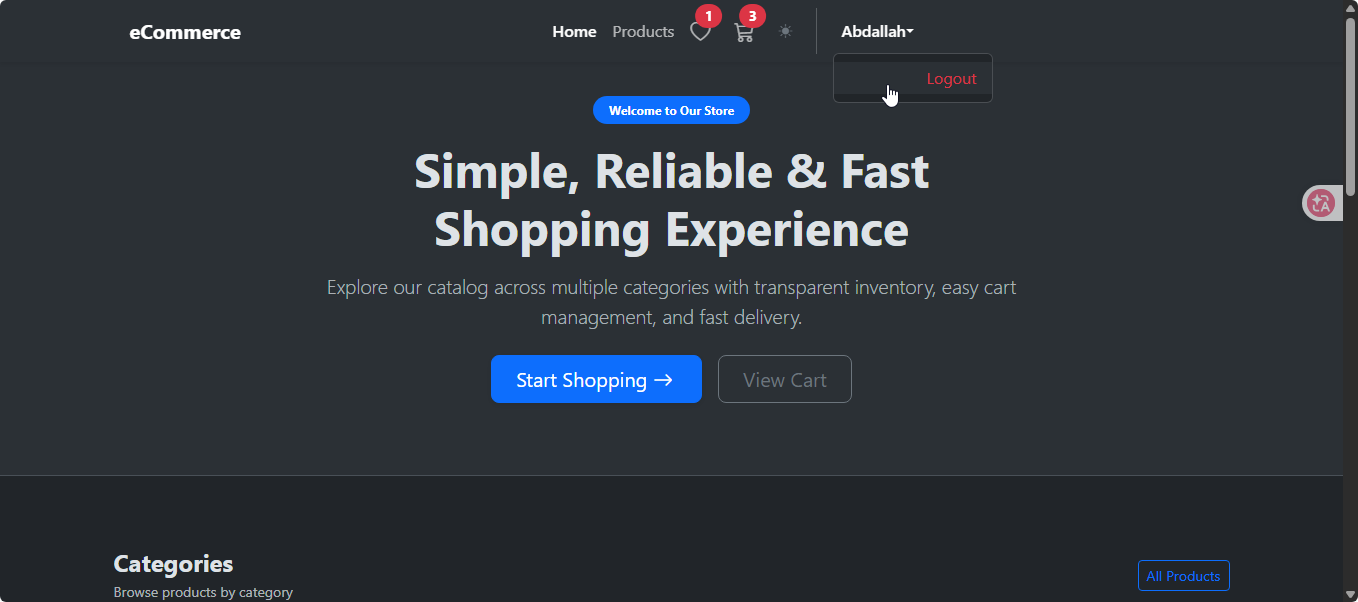
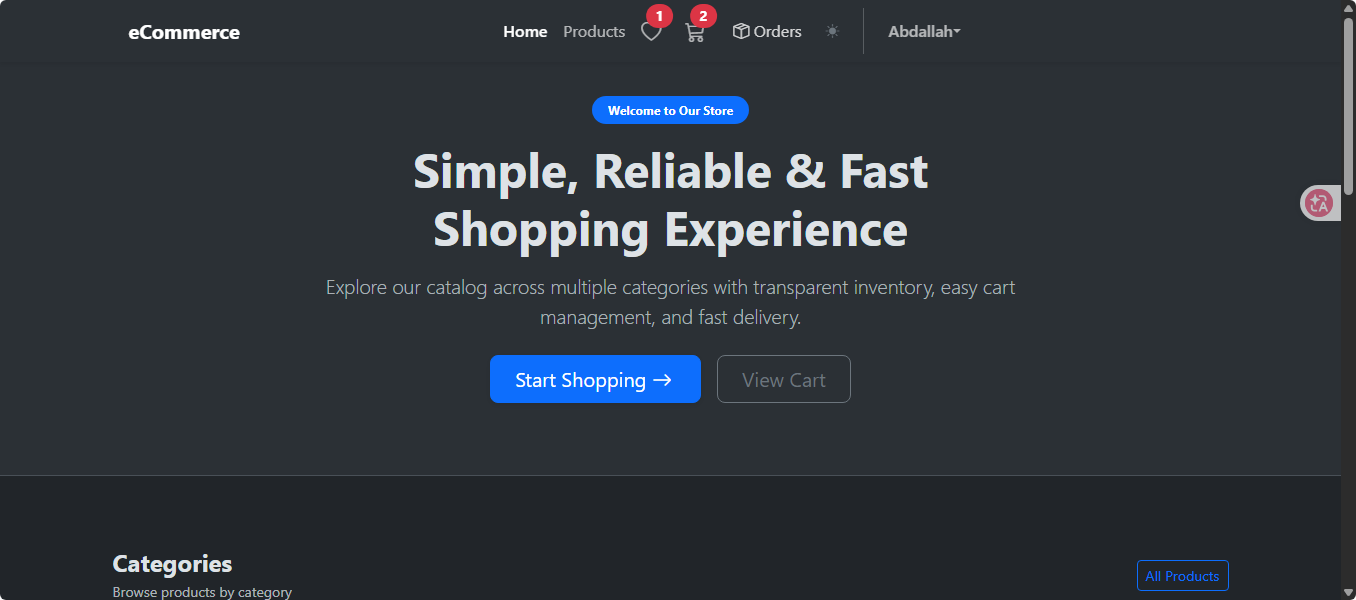
Changing E-Commerce desc and photo

diff --git a/src/data/myProjects.js b/src/data/myProjects.js
@@ -6,8 +6,8 @@ import EducationalPlatformImage from "../assets/MyProjects/Educational-Platform.
 export const myProjects = [
     {
         title: "E-Commerce",
-        description: "A responsive e-commerce platform with real-time search, category filters, and live stock tracking. Features cart and wishlist management with full auth workflows.",
-        technologies: ["React", "TypeScript", "Redux Toolkit", "React Router", "Bootstrap", "Local Storage", "React Hook Form", "Zod"],
+        description: "A full-featured e-commerce platform simulating a full-stack architecture on the client side. Includes auth flows, protected routes, stock tracking, cart/wishlist management, and order history with isolated user data via LocalStorage.",
+        technologies: ["React", "TypeScript", "Redux Toolkit", "React Router DOM", "Bootstrap", "Local Storage", "React Hook Form", "Zod"],
         image: eCommerceImage,
         liveLink: "https://e-commerce-abdallah.vercel.app/",
         isRepoAvailable: true,
@@ -16,7 +16,7 @@ export const myProjects = [
     {
         title: "Educational Platform",
         description: "An interactive e-learning platform that allows users to explore courses, filter by categories, view detailed curriculums, and manage course enrollments using a streamlined cart and purchase workflow.",
-        technologies: ["React", "Redux Toolkit", "React Router", "Bootstrap", "Local Storage"],
+        technologies: ["React", "Redux Toolkit", "React Router DOM", "Bootstrap", "Local Storage"],
         image: EducationalPlatformImage,
         liveLink: "https://educational-platform-abdallah.vercel.app",
         isRepoAvailable: true,
